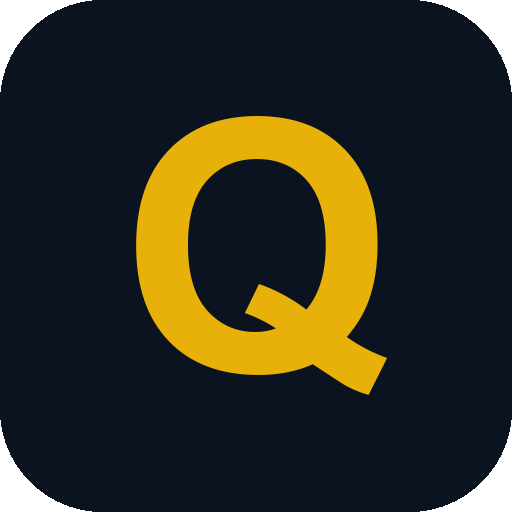
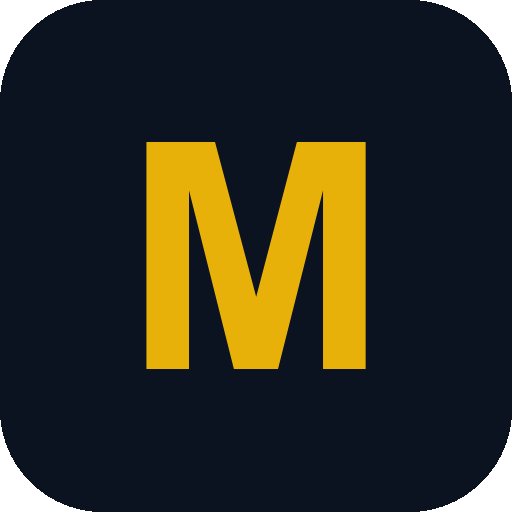
mejoras y actualziaciones

Changed region(s): [[0.25, 0.2188, 0.75, 0.7812]]

diff --git a/minelink-agente/frontend/src/pages/Cuestionario.tsx b/minelink-agente/frontend/src/pages/Cuestionario.tsx
@@ -185,6 +185,37 @@ export function Cuestionario() {
 
   function responder(valor: string) {
     if (!actual) return;
+
+    // Validación numérica EN LA PREGUNTA (julio 2026, reportado por el
+    // dueño): antes se podía escribir un año futuro (ej. 2030) y el
+    // rechazo llegaba recién al ENVIAR todo el diagnóstico, como un
+    // error técnico al final. Ahora se frena aquí con un mensaje claro.
+    if (actual.tipo === "numero" || actual.tipo === "anio") {
+      const numero = Number(valor);
+      const anioActual = new Date().getFullYear();
+      // Preguntas de año sin max declarado: el tope es el año en curso
+      // (mismo criterio que el backend — maximo=None → hoy.year).
+      const max = actual.max ?? (actual.tipo === "anio" ? anioActual : undefined);
+      if (!Number.isInteger(numero)) {
+        setError("Escribe solo números, sin letras ni decimales.");
+        return;
+      }
+      if (actual.tipo === "anio" && numero > anioActual) {
+        setError(
+          `Coloca bien la fecha: estamos en ${anioActual} y pusiste ${numero}. El año no puede ser futuro.`
+        );
+        return;
+      }
+      if (actual.min != null && numero < actual.min) {
+        setError(`Revisa el dato: no puede ser menor que ${actual.min}.`);
+        return;
+      }
+      if (max != null && numero > max) {
+        setError(`Revisa el dato: no puede ser mayor que ${max}.`);
+        return;
+      }
+    }
+
     if (!inicioRegistrado.current) {
       registrarEvento("diagnostico_iniciado");
       inicioRegistrado.current = true;

diff --git a/minelink-agente/frontend/index.html b/minelink-agente/frontend/index.html
@@ -3,7 +3,7 @@
   <head>
     <meta charset="UTF-8" />
     <meta name="viewport" content="width=device-width, initial-scale=1.0" />
-    <title>Qorilink — Formaliza tu minería y conecta con inversionistas</title>
+    <title>MineLink — Formaliza tu minería y conecta con inversionistas</title>
     <!-- Ícono de la pestaña del navegador + ícono al anclar en un iPhone
          (generados de la marca: Q dorada — "qori" = oro en quechua). -->
     <link rel="icon" type="image/png" sizes="64x64" href="/favicon-64.png" />
@@ -21,8 +21,8 @@
       content="Diagnóstico gratuito de formalización para mineros artesanales del Perú: descubre en qué paso estás (REINFO, IGAFOM, concesión), qué te falta y quién te ayuda. Proyectos mineros verificados para inversionistas."
     />
     <meta property="og:type" content="website" />
-    <meta property="og:site_name" content="Qorilink" />
-    <meta property="og:title" content="Qorilink — Formaliza tu minería y conecta con inversionistas" />
+    <meta property="og:site_name" content="MineLink" />
+    <meta property="og:title" content="MineLink — Formaliza tu minería y conecta con inversionistas" />
     <meta
       property="og:description"
       content="Diagnóstico gratuito de formalización minera en Perú y cartera de proyectos verificados para inversionistas."

diff --git a/minelink-agente/frontend/src/config/marca.ts b/minelink-agente/frontend/src/config/marca.ts
@@ -1,5 +1,5 @@
 /** ÚNICA fuente de verdad del nombre de la marca (julio 2026, pedido de
- *  Esthiven tras renombrar MineLink → Qorilink: "que si modifico el nombre
+ *  Esthiven tras renombrar MineLink → MineLink: "que si modifico el nombre
  *  se modifique todo"). Para renombrar la plataforma otra vez, cambiar SOLO
  *  esta línea y recompilar. Excepciones que igual hay que tocar a mano
  *  (no pueden leer esta constante):
@@ -7,4 +7,4 @@
  *  - la documentación .md del repo
  *  - los nombres técnicos NO se tocan nunca (URLs de hosting, appId de
  *    Android, claves de localStorage, bucket/BD) — romperían la app. */
-export const MARCA = "Qorilink";
+export const MARCA = "MineLink";

diff --git a/minelink-agente/frontend/src/pages/ProyectoDetalle.tsx b/minelink-agente/frontend/src/pages/ProyectoDetalle.tsx
@@ -835,7 +835,7 @@ export function ProyectoDetalle() {
               </div>
 
               {/* Verificación MANUAL del código REINFO por el equipo de
-                  Qorilink — el cotejo automático de abajo está desactivado
+                  MineLink — el cotejo automático de abajo está desactivado
                   (ver backend/reinfo.py), así que esta es la fuente real
                   hoy. */}
               {proyecto.reinfo_verificado_manual && (

diff --git a/minelink-agente/frontend/src/utils/pdfProyecto.ts b/minelink-agente/frontend/src/utils/pdfProyecto.ts
@@ -517,7 +517,7 @@ export async function generarPdfProyecto(proyecto: ProyectoDetalle): Promise<voi
   }
 
   // Cotejo con registros públicos — GEOCATMIN (catastro + geología) y
-  // REINFO (verificado a mano por Qorilink) — agregado julio 2026.
+  // REINFO (verificado a mano por MineLink) — agregado julio 2026.
   const geocatmin = proyecto.geocatmin;
   const tieneCotejo =
     geocatmin?.concesion || geocatmin?.geologia || proyecto.reinfo_verificado_manual;

diff --git a/minelink-agente/frontend/src/pages/admin/AdminLeads.tsx b/minelink-agente/frontend/src/pages/admin/AdminLeads.tsx
@@ -169,7 +169,7 @@ function exportarCSV(leads: LeadConDiagnostico[]) {
   const url = URL.createObjectURL(blob);
   const enlace = document.createElement("a");
   enlace.href = url;
-  enlace.download = `leads_qorilink_${new Date().toISOString().slice(0, 10)}.csv`;
+  enlace.download = `leads_minelink_${new Date().toISOString().slice(0, 10)}.csv`;
   enlace.click();
   URL.revokeObjectURL(url);
 }

diff --git a/minelink-agente/frontend/capacitor.config.ts b/minelink-agente/frontend/capacitor.config.ts
@@ -2,7 +2,7 @@ import type { CapacitorConfig } from "@capacitor/cli";
 
 const config: CapacitorConfig = {
   appId: "com.minelink.app",
-  appName: "Qorilink",
+  appName: "MineLink",
   webDir: "dist",
   // El backend de producción (Render) tiene HTTPS real, así que se usa el
   // esquema https por defecto de Capacitor. Si algún día se prueba contra

diff --git a/minelink-agente/frontend/src/config/whatsapp.ts b/minelink-agente/frontend/src/config/whatsapp.ts
@@ -1,4 +1,4 @@
-// Número de WhatsApp del equipo Qorilink (Esthiven, admin) — a donde el
+// Número de WhatsApp del equipo MineLink (Esthiven, admin) — a donde el
 // minero envía su resultado para recibir orientación. Sin "+", formato wa.me.
 export const WHATSAPP_ADMIN = "51925512036";
 

diff --git a/minelink-agente/backend/catalogo_diagnostico.py b/minelink-agente/backend/catalogo_diagnostico.py
@@ -302,6 +302,15 @@ def validar_respuestas(respuestas: dict[str, str], hoy: date | None = None) -> s
             except (TypeError, ValueError):
                 raise ValueError(f"{id_pregunta}: debe ser un número entero")
             if not (minimo <= numero <= maximo):
+                # Año futuro: mensaje en lenguaje del minero (julio 2026,
+                # reportado por el dueño — antes salía como error técnico
+                # al final del wizard; el frontend ahora también lo frena
+                # en la propia pregunta, esto es la red de seguridad).
+                if tipo == "anio" and numero > maximo:
+                    raise ValueError(
+                        f"{id_pregunta}: coloca bien la fecha — estamos en "
+                        f"{maximo} y el año no puede ser futuro"
+                    )
                 raise ValueError(f"{id_pregunta}: debe estar entre {minimo} y {maximo}")
 
     return perfil

diff --git a/minelink-agente/backend/main.py b/minelink-agente/backend/main.py
@@ -9,7 +9,7 @@ from routers import admin, diagnostico, empresas, eventos, inversionistas, leads
 
 Base.metadata.create_all(bind=engine)
 
-app = FastAPI(title="Qorilink API")
+app = FastAPI(title="MineLink API")
 
 origenes = [
     "http://127.0.0.1:5173",

diff --git a/CLAUDE.md b/CLAUDE.md
@@ -10,16 +10,33 @@ The diagnostic was rebuilt around the owner's spec —
 sin operar" / C "REINFO" / D "formal pleno" / SIN RUTA; output is TWO independent semáforos
 (Track Legal + Track Técnico with Índice de Madurez 0-5). This model IS live in production;
 the migration seeds for its columns (`migrar_estado_formalizacion.py`,
-`migrar_revision_documentos.py`, `migrar_datos_formalizacion.py`, `migrar_notificaciones.py`)
-were already run against Supabase.
+`migrar_revision_documentos.py`, `migrar_datos_formalizacion.py`, `migrar_notificaciones.py`,
+plus later `migrar_reinfo_verificado.py`, `habilitar_rls_tablas_nuevas.py` and
+`migrar_contexto_empresas_csv.py`) were already run against Supabase.
 
 Built on top of it since (all deployed):
+- **Brand is "MineLink"** (briefly renamed to "Qorilink" in July 2026, then reverted by
+  the owner days later). Single source of truth: `frontend/src/config/marca.ts` (`MARCA`);
+  to rename change ONLY that line (+ `index.html` metas, the brand images in
+  `frontend/public/` and docs by hand). Technical identifiers (hosting URLs, Android appId
+  `com.minelink.app`, localStorage keys, DB/bucket names, `MINELINK_*` env vars, the
+  published `MineLink.apk`) never change with the brand — renaming those breaks deployed
+  clients.
 - **Módulo INV** (`backend/catalogo_inversion.py` + frontend modal wizard): investment
   questionnaire per perfil (INV_0 común + bloque A/B/C/D), with upload slots derived ONLY
   from positive answers, admin alerts AL1-AL10, and evidence-first auto-resolution
-  (uploading a respaldo resolves the brecha — no admin approval step; publication to
-  /proyectos is automatic once formalización docs + Módulo INV are both ENVIADOS and the
-  semáforo legal isn't rojo).
+  (uploading a respaldo resolves the brecha; publication to /proyectos is automatic once
+  formalización docs + Módulo INV are both ENVIADOS and the semáforo legal isn't rojo).
+- **Admin per-document review REINTRODUCED** (July 2026, owner reversal of the earlier
+  "evidence is enough" policy): `DocumentoOperacion.estado_revision`
+  (pendiente/aprobado/rechazado, set from AdminLeads) now gates the public "Con respaldo"
+  badge everywhere (ficha, cartera chips, indicadores verificados, PDF). Uploading still
+  self-resolves the brecha and never blocks publication — approval only controls the badge.
+- **Manual REINFO verification**: the automated MINEM scraper is disabled by default
+  (`backend/reinfo.py`, `MINELINK_REINFO != "1"` — plain `requests` gets false
+  "no_encontrado"; a working approach needs Playwright, deferred). Esthiven verifies the
+  código by hand and marks `Operacion.reinfo_verificado_manual` from the admin; the ficha
+  and PDF show "Código REINFO verificado por el equipo de MineLink".
 - **Scores 0-100 por track REINTRODUCED** (`scoring.score_formalizacion` /
   `score_inversion`): stage-anchored ranges (`RANGO_SCORE_POR_PERFIL`: D always above C
   above B...). They COMPLEMENT the semáforos (which still rule the regla de bloqueo), used
@@ -34,18 +51,38 @@ Built on top of it since (all deployed):
   ficha queries INGEMMET's ArcGIS REST (catastro minero + geología 1:100K), cached 30 days
   in `datos_formalizacion_json["_geocatmin"]` (underscore key, no migration). Best-effort:
   ficha never breaks if INGEMMET is down. Tests disable it via `MINELINK_GEOCATMIN=0`
-  (same pattern as `MINELINK_RESOLVER_MAPS=0`).
+  (same pattern as `MINELINK_RESOLVER_MAPS=0`). It also renders the server-composited map
+  (satellite + catastro + geología + pin, `imagen_mapa_cotejo`) used as the PDF cover via
+  `GET /proyectos/{id}/mapa-cotejo.jpg`.
+- **Empresas bulk import** (`POST /admin/empresas/importar`) accepts TWO CSV formats,
+  auto-detected by headers: the native one AND the raw Google Places scraping file
+  (name,address,phone,website,category,keyword,block...) converted by
+  `_fila_desde_scraping`. Bulk-imported rows skip the RUC/colegiatura requirement
+  (`schemas.EmpresaImportarCSV`) but are born `activa=False` — invisible to miners until
+  the admin reviews/activates each one. The strict identity rule lives ONLY in
+  `EmpresaCreate` (manual "+ Nuevo" and public postulation). `Empresa` also carries
+  scraping context columns (web/telefono/direccion/categoria/keyword), admin-only.
+- **Institutional visual language** (July 2026, owner-approved direction): thin borders
+  instead of shadowed rounded cards, flat chips instead of colored pills, `font-semibold`
+  instead of `font-bold`, accent color reserved for the primary action; semantic
+  green/amber/red kept only where it encodes real state. Applied across ALL public pages
+  and the admin — match it in any new UI.
+- **SEO/launch surface**: `frontend/public/` has `sitemap.xml`, `robots.txt`, favicon set
+  and `og.png`; `index.html` carries the Google Search Console verification meta tag —
+  NEVER remove it (verification is revoked if it disappears). Daily DB backup runs via
+  `.github/workflows/backup-db.yml` (needs `postgresql-client-17` — Supabase runs PG 17;
+  secret `DATABASE_URL_BACKUP` already configured).
 
 Still pending:
-- Admin dashboard's `score_promedio` still averages the legacy `score_total` (0 on new
-  rows) — cosmetic, replace with madurez promedio / conteo por perfil when convenient.
 - Old question sets are PAUSED, not deleted (owner decision, do not delete):
   `backend/scoring_legacy.py`, `frontend/src/data/preguntasPerfil.ts`,
   `perfilInformativo.ts`, `components/PerfilInformativoAgrupado.tsx`.
+- Automated REINFO checking (would need a Playwright-based service; owner said "por
+  ahora ya no").
 
 ## What this repository is
 
-**Qorilink**: a web platform where Peruvian artisanal miners take a formalization diagnostic,
+**MineLink**: a web platform where Peruvian artisanal miners take a formalization diagnostic,
 get placed in their exact stage of the legal pipeline with a checklist and semáforos, and get
 matched with companies/consultants who provide exactly the studies/procedures they lack. It
 also has a public "Proyectos" showcase for investors and an admin panel. Full backend
@@ -76,7 +113,7 @@ attempt to resolve.
 ```bash
 # Backend (from minelink-agente/backend/)
 uvicorn main:app --reload --host 127.0.0.1 --port 8000
-pytest -q                                            # full suite (~205 tests)
+pytest -q                                            # full suite (~230 tests)
 pytest tests/test_smoke.py::test_post_diagnostico -q # single test
 
 # Frontend (from minelink-agente/frontend/)
@@ -112,7 +149,8 @@ directly against production — never run one without explicit confirmation.
   `brechas_resueltas_json`; `estado_seguimiento()` recomputes state by patching answers to
   their "resolved value" without mutating the original declaration (and drops only
   patch-orphaned conditional answers). Public ✓ (`brechas_verificadas`) requires the photo,
-  not just the resolution.
+  and the "Con respaldo" badge additionally requires `estado_revision == "aprobado"` set by
+  the admin — declaration alone earns neither.
 - **Investor gating (regla de bloqueo)**: projects with an active legal fire (semáforo rojo)
   are hidden from `/proyectos`; perfil A and old-model rows never list; publication also
   requires `documentos_enviados_en` AND `inv_enviado_en` (both sent by the miner — no manual

diff --git a/minelink-agente/CLAUDE.md b/minelink-agente/CLAUDE.md
@@ -1,4 +1,4 @@
-# Qorilink — Motor de Búsqueda de Formalización Minera
+# MineLink — Motor de Búsqueda de Formalización Minera
 
 ## Objetivo del proyecto
 Plataforma web donde un minero artesanal peruano:
@@ -62,12 +62,18 @@ Plataforma web donde un minero artesanal peruano:
    minero ve el CONTEO de intereses recibidos y puede "ver su proyecto
    como lo ve el inversionista".
 
-Esthiven es el único administrador: carga empresas (una por una o CSV),
-revisa leads con su perfil/semáforos/alertas del Módulo INV (AL1-AL10),
-ve documentos (solo lectura — ya no aprueba/rechaza), resetea contraseñas
-y puede marcar brechas puntuales como resueltas por seguimiento manual.
-Las empresas NO tienen acceso; su rating solo se ve en el admin (ordena
-internamente /empresas sin mostrarse).
+Esthiven es el único administrador: carga empresas (una por una, o en
+lote por CSV — el importador acepta tanto el formato propio como el
+archivo crudo del scraper de Google Places, y todo lo importado en lote
+nace INACTIVO y sin exigir RUC/colegiatura hasta que él lo revise y
+active), revisa leads con su perfil/semáforos/alertas del Módulo INV
+(AL1-AL10), APRUEBA/RECHAZA cada documento subido (julio 2026: ese
+estado_revision es lo único que otorga el sello público "Con respaldo" —
+subir el archivo resuelve la brecha pero no da el sello), verifica a
+mano códigos REINFO (el cotejo automático está desactivado), resetea
+contraseñas y puede marcar brechas puntuales como resueltas por
+seguimiento manual. Las empresas NO tienen acceso; su rating solo se ve
+en el admin (ordena internamente /empresas sin mostrarse).
 
 ## Rol de este archivo
 Este es el archivo del ORQUESTADOR. Cuando recibas una instrucción:
@@ -120,7 +126,7 @@ Este es el archivo del ORQUESTADOR. Cuando recibas una instrucción:
 ### Backend (desde `backend/`)
 ```bash
 uvicorn main:app --reload --host 127.0.0.1 --port 8000   # servidor dev
-pytest -q                                                 # toda la suite (~205 tests)
+pytest -q                                                 # toda la suite (~230 tests)
 pytest tests/test_scoring.py -q                           # un archivo
 pytest tests/test_smoke.py::test_post_diagnostico -q      # un test puntual
 pip install -r requirements.txt                           # dependencias (usar --break-system-packages en este entorno)
@@ -260,11 +266,22 @@ Modo dual vía `backend/storage.py` (la BD solo guarda el nombre de archivo, no 
         │                          POST devuelve 422; preguntasPerfil.ts/perfilInformativo.ts
         │                          están EN PAUSA (no borrar)
         ├── components/         ← incluye proyecto/ para la ficha pública
+        ├── config/marca.ts     ← ÚNICA fuente del nombre de marca ("MineLink") — todo
+        │                          texto visible la importa; nunca escribir la marca a mano
         ├── pages/              ← incluye admin/ para el panel
         ├── context/            ← AuthContext (admin), MineroAuthContext, InversionistaAuthContext
         ├── types/
         └── services/api.ts     ← todas las llamadas fetch al backend
 ```
+
+### Línea visual (julio 2026, aprobada por Esthiven — "más profesionalismo")
+Estética institucional en TODA la web y el admin: bordes finos
+(`border border-black/10 dark:border-white/10`) en vez de tarjetas con
+sombra y `rounded-*`; chips planos con borde en vez de burbujas de color;
+`font-semibold` en vez de `font-bold`; el color de acento reservado para
+la acción principal. El verde/ámbar/rojo semántico se mantiene SOLO donde
+comunica estado real (semáforos, verificaciones, alertas). Cualquier UI
+nueva debe seguir esta línea.
 
 ## Reglas de autonomía
 
